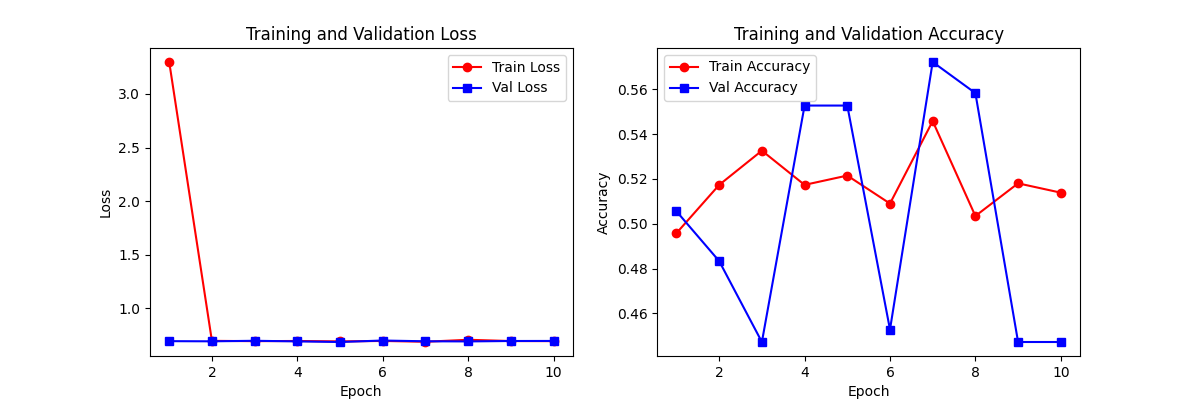
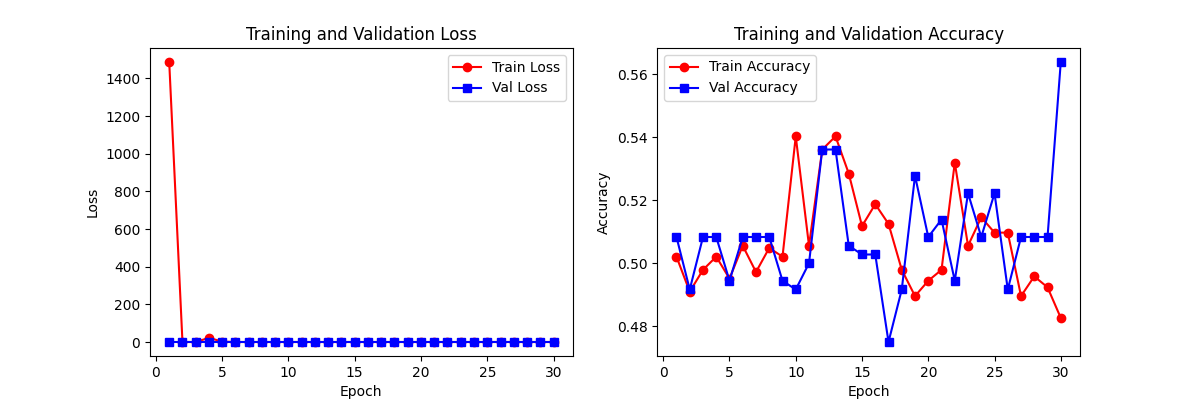
simple adjustment

diff --git a/cat_dog_classification_GoogLeNet/model_train.py b/cat_dog_classification_GoogLeNet/model_train.py
@@ -20,7 +20,7 @@ def deal_train_and_val_data():
     # 使用的均值和标准差是通过 mean_std.py 计算得到的
     # 这一步不操作也可以，因为后面的 ToTensor() 函数也会将图像的像素值转换为 [0, 1] 范围内，但作用体现在Normalize() 函数中
     # Normalize() 是正态分布的归一化操作，将图像的像素值转换为 [0, 1] 范围内的正态分布，使得数据处于激活函数梯度最大的区间，有助于模型更快地收敛，并提高模型的性能
-    normalize = transforms.Normalize(mean=[0.4853, 0.4523, 0.4146], std=[0.2617, 0.2544, 0.2580])
+    normalize = transforms.Normalize(mean=[0.4853, 0.4523, 0.4146], std=[0.2617, 0.2544, 0.2579])
 
     # 定义图像变换操作, 这里是将图像 resize 到 224x224 大小，然后转换为张量，返回一个函数，用于对图像进行变换操作
     # ToTensor() 函数的作用是将图像转换为张量，将图像的像素值从 [0, 255] 转换为 [0, 1]，并将其转换为 torch.FloatTensor 类型
@@ -46,8 +46,8 @@ def train_model(model, train_dataloader, val_dataloader, epochs):
     device = torch.device("cuda:0" if torch.cuda.is_available() else "cpu")
     # 定义损失函数, 这里是使用交叉熵损失函数, 它的作用是计算模型输出和真实标签之间的差异, 用于训练模型
     criterion = nn.CrossEntropyLoss()
-    # 定义优化器, 这里是使用 Adam 优化器, 它的作用是根据损失函数的梯度来更新模型的参数, 用于训练模型, 学习率为 0.001
-    optimizer = torch.optim.Adam(model.parameters(), lr=0.001)
+    # 定义优化器, 这里是使用 Adam 优化器, 它的作用是根据损失函数的梯度来更新模型的参数, 用于训练模型, 学习率为 0.001, 权重衰减率为 0.0005
+    optimizer = torch.optim.Adam(model.parameters(), lr=0.005, weight_decay=0.0005)
     # 将模型移动到 GPU 上或者 CPU 上
     model = model.to(device)
     # 定义最佳模型的权重, 这里是将当前模型的权重复制给 best_model_wts, 用于后续的模型保存
@@ -196,7 +196,7 @@ def matplot_acc_loss(train_process):
 if __name__ == '__main__':
     train_dataloader, val_dataloader = deal_train_and_val_data()
     GoogLeNetModel = GoogLeNet(Inception)
-    train_process = train_model(GoogLeNetModel, train_dataloader, val_dataloader, 10)
+    train_process = train_model(GoogLeNetModel, train_dataloader, val_dataloader, 30)
     matplot_acc_loss(train_process)
 
 
